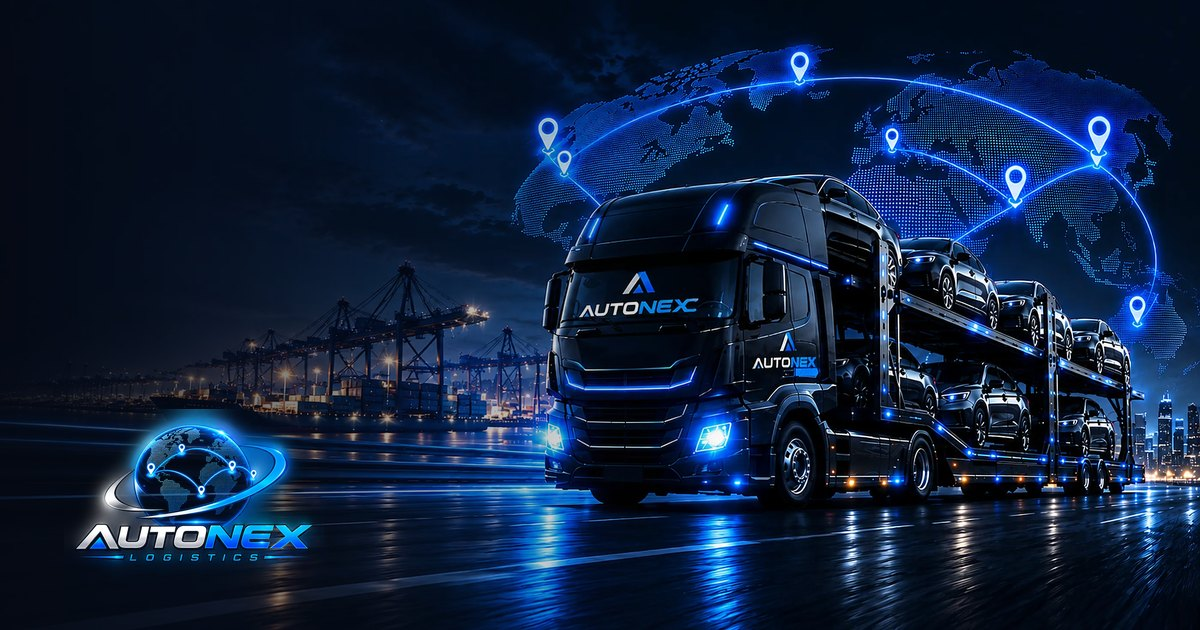
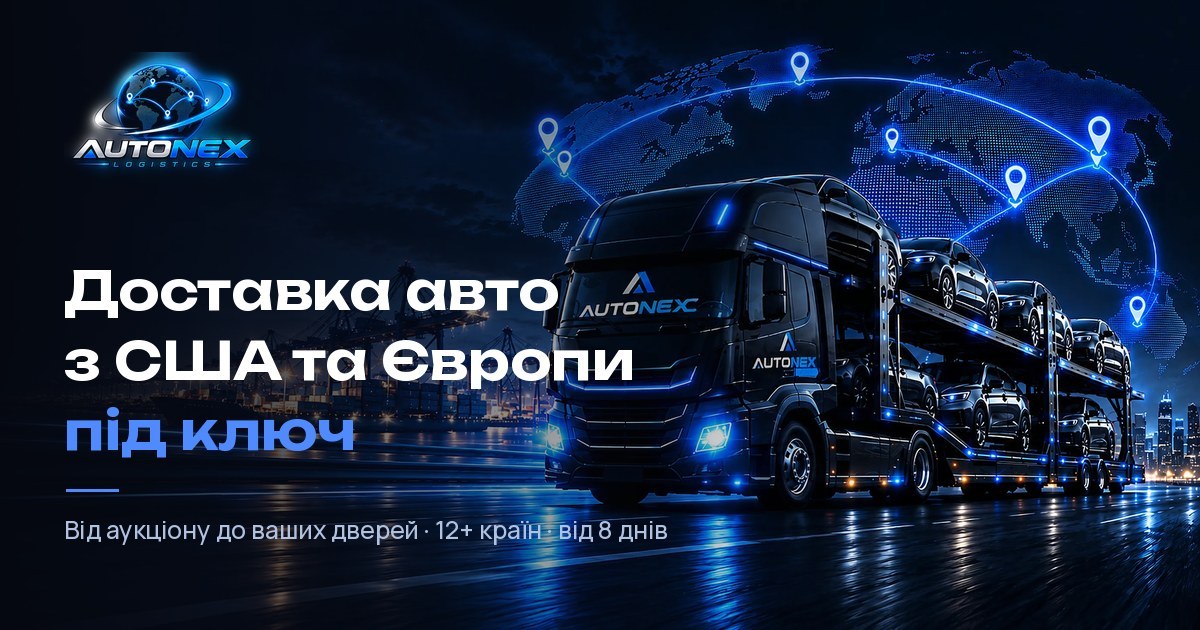
Point SEO at the Vercel domain, compose a proper OG card
- SITE_URL falls back to autonex-sigma.vercel.app; canonical, Open Graph,
  JSON-LD, sitemap and robots all follow it. NEXT_PUBLIC_SITE_URL still
  overrides once a real domain is attached.
- og.jpg is now an actual share card, not just a cropped photo: logo,
  three-line headline set in Unbounded (the site's own display face) and
  a supporting line, over the hero frame with the truck left intact.
- scripts/make-og.py regenerates it; brand fonts are fetched from Google
  Fonts at run time so no font binaries land in the repo.

The scrim reaches 78% of the width — at 66% the headline ran over the
cab and collided with the AUTONEX lettering painted on the truck.

diff --git a/src/lib/seo.ts b/src/lib/seo.ts
@@ -1,9 +1,10 @@
 import { CONTACT } from "./data";
 
-/* Domain comes from the deploy env; the fallback matches the address on the
-   contact block (info@autonex.ua) so nothing breaks before it is set. */
+/* Current home is the Vercel preview domain. Set NEXT_PUBLIC_SITE_URL in the
+   deploy env when the real domain is ready — canonical, Open Graph, sitemap
+   and robots all read from here. */
 export const SITE_URL = (
-  process.env.NEXT_PUBLIC_SITE_URL ?? "https://autonex.ua"
+  process.env.NEXT_PUBLIC_SITE_URL ?? "https://autonex-sigma.vercel.app"
 ).replace(/\/$/, "");
 
 export const SITE_NAME = "AUTONEX Logistics";

diff --git a/scripts/make-og.py b/scripts/make-og.py
@@ -1,0 +1,86 @@
+#!/usr/bin/env python3
+"""Compose public/og.jpg — the 1200x630 social share card.
+
+Re-run after changing the hero photo or the headline:
+    python3 scripts/make-og.py
+Brand fonts are pulled from Google Fonts so nothing heavy lives in the repo.
+"""
+import pathlib, urllib.request
+from PIL import Image, ImageDraw, ImageFont
+
+ROOT = pathlib.Path(__file__).resolve().parent.parent
+CACHE = pathlib.Path("/tmp")
+FONTS = {
+    "display": "https://github.com/google/fonts/raw/main/ofl/unbounded/Unbounded%5Bwght%5D.ttf",
+    "sans": "https://github.com/google/fonts/raw/main/ofl/manrope/Manrope%5Bwght%5D.ttf",
+}
+
+W, H = 1200, 630
+BRAND = (79, 139, 255)
+INK = (255, 255, 255)
+MUTED = (176, 194, 224)
+
+HEADLINE = ["Доставка авто", "з США та Європи", "під ключ"]
+HIGHLIGHT = 2  # index of the line painted in brand blue
+SUBLINE = "Від аукціону до ваших дверей · 12+ країн · від 8 днів"
+
+
+def font(kind: str, size: int, weight: int) -> ImageFont.FreeTypeFont:
+    path = CACHE / f"og-{kind}.ttf"
+    if not path.exists():
+        urllib.request.urlretrieve(FONTS[kind], path)
+    f = ImageFont.truetype(str(path), size)
+    try:
+        f.set_variation_by_axes([weight])
+    except Exception:
+        pass
+    return f
+
+
+def build() -> None:
+    hero = Image.open(ROOT / "public/images/hero-bg.webp").convert("RGB")
+    sw, sh = hero.size
+    ratio = W / H
+    if sw / sh > ratio:  # too wide: trim the sides
+        nw = int(sh * ratio)
+        box = ((sw - nw) // 2, 0, (sw - nw) // 2 + nw, sh)
+    else:  # too tall: trim top/bottom, biased to keep the truck and globe
+        nh = int(sw / ratio)
+        top = int((sh - nh) * 0.42)
+        box = (0, top, sw, top + nh)
+    card = hero.crop(box).resize((W, H), Image.LANCZOS).convert("RGBA")
+
+    # lift the left side only — the truck on the right stays untouched
+    scrim = Image.new("RGBA", (W, H))
+    px = scrim.load()
+    for x in range(W):
+        a = int(min(248, max(0, 250 * (1 - (x / W) / 0.78))))
+        for y in range(H):
+            px[x, y] = (5, 8, 16, a)
+    card = Image.alpha_composite(card, scrim)
+
+    logo = Image.open(ROOT / "public/images/logo-full.webp").convert("RGBA")
+    lw = 196
+    logo = logo.resize((lw, round(logo.height * lw / logo.width)), Image.LANCZOS)
+    card.alpha_composite(logo, (64, 52))
+
+    d = ImageDraw.Draw(card)
+    head = font("display", 52, 640)
+    sub = font("sans", 25, 500)
+
+    y = 258
+    for i, line in enumerate(HEADLINE):
+        d.text((64, y), line, font=head, fill=BRAND if i == HIGHLIGHT else INK)
+        y += 70
+
+    y += 22
+    d.line([(66, y), (66 + 52, y)], fill=BRAND, width=3)
+    d.text((64, y + 22), SUBLINE, font=sub, fill=MUTED)
+
+    out = ROOT / "public/og.jpg"
+    card.convert("RGB").save(out, "JPEG", quality=88, optimize=True, progressive=True)
+    print(f"{out.relative_to(ROOT)}  {W}x{H}  {out.stat().st_size // 1024} KB")
+
+
+if __name__ == "__main__":
+    build()
